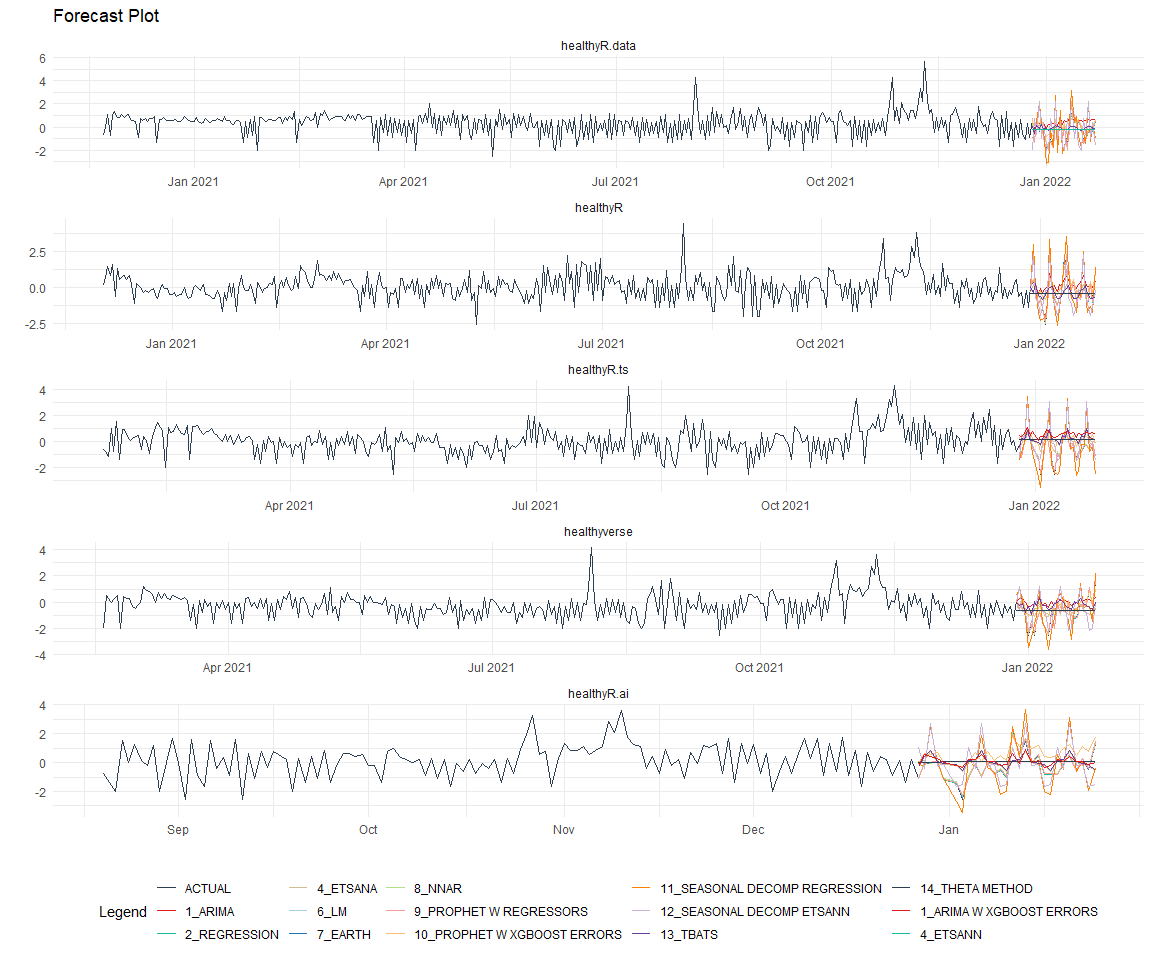
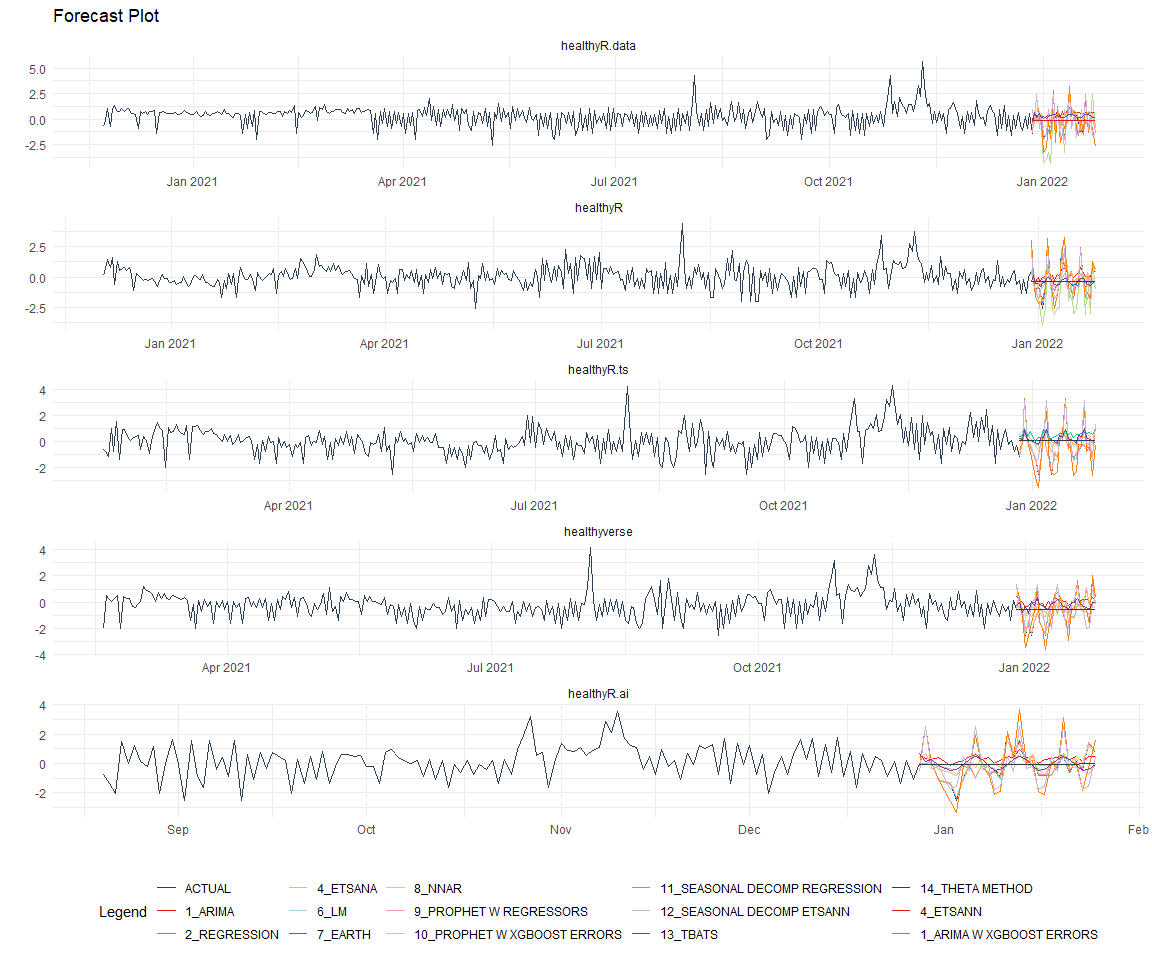
update

diff --git a/README.md b/README.md
@@ -1,7 +1,7 @@
 Time Series Analysis and Modeling of the Healthyverse Packages
 ================
 Steven P. Sanderson II, MPH - Data Scientist/IT Manager
-23 February, 2022
+24 February, 2022
 
 ## Get Data
 
@@ -9,7 +9,7 @@ Steven P. Sanderson II, MPH - Data Scientist/IT Manager
 glimpse(downloads_tbl)
 ```
 
-    ## Rows: 29,537
+    ## Rows: 29,559
     ## Columns: 11
     ## $ date      <date> 2020-11-23, 2020-11-23, 2020-11-23, 2020-11-23, 2020-11-23,~
     ## $ time      <Period> 15H 36M 55S, 11H 26M 39S, 23H 34M 44S, 18H 39M 32S, 9H 0M~
@@ -23,8 +23,8 @@ glimpse(downloads_tbl)
     ## $ country   <chr> "US", "US", "US", "GB", "US", "US", "DE", "HK", "JP", "US", ~
     ## $ ip_id     <int> 2069, 2804, 78827, 27595, 90474, 90474, 42435, 74, 7655, 638~
 
-The last day in the data set is 2022-02-21 22:40:27, the file was
-birthed on: 2021-11-29 11:38:26, and at report knit time is -2022.03
+The last day in the data set is 2022-02-22 23:56:27, the file was
+birthed on: 2021-11-29 11:38:26, and at report knit time is -2047.3
 hours old. Happy analyzing!
 
 Now that we have our data lets take a look at it using the `skimr`
@@ -37,7 +37,7 @@ skim(downloads_tbl)
 |                                                  |                |
 |:-------------------------------------------------|:---------------|
 | Name                                             | downloads\_tbl |
-| Number of rows                                   | 29537          |
+| Number of rows                                   | 29559          |
 | Number of columns                                | 11             |
 | \_\_\_\_\_\_\_\_\_\_\_\_\_\_\_\_\_\_\_\_\_\_\_   |                |
 | Column type frequency:                           |                |
@@ -55,37 +55,37 @@ Data summary
 
 | skim\_variable | n\_missing | complete\_rate | min | max | empty | n\_unique | whitespace |
 |:---------------|-----------:|---------------:|----:|----:|------:|----------:|-----------:|
-| r\_version     |      19628 |           0.34 |   5 |   5 |     0 |        29 |          0 |
-| r\_arch        |      19628 |           0.34 |   3 |   7 |     0 |         5 |          0 |
-| r\_os          |      19628 |           0.34 |   7 |  15 |     0 |        11 |          0 |
+| r\_version     |      19637 |           0.34 |   5 |   5 |     0 |        29 |          0 |
+| r\_arch        |      19637 |           0.34 |   3 |   7 |     0 |         5 |          0 |
+| r\_os          |      19637 |           0.34 |   7 |  15 |     0 |        11 |          0 |
 | package        |          0 |           1.00 |   8 |  13 |     0 |         6 |          0 |
 | version        |          0 |           1.00 |   5 |   5 |     0 |        16 |          0 |
-| country        |       2480 |           0.92 |   2 |   2 |     0 |       101 |          0 |
+| country        |       2482 |           0.92 |   2 |   2 |     0 |       101 |          0 |
 
 **Variable type: Date**
 
 | skim\_variable | n\_missing | complete\_rate | min        | max        | median     | n\_unique |
 |:---------------|-----------:|---------------:|:-----------|:-----------|:-----------|----------:|
-| date           |          0 |              1 | 2020-11-23 | 2022-02-21 | 2021-08-28 |       456 |
+| date           |          0 |              1 | 2020-11-23 | 2022-02-22 | 2021-08-28 |       457 |
 
 **Variable type: numeric**
 
 | skim\_variable | n\_missing | complete\_rate |       mean |         sd |  p0 |   p25 |    p50 |     p75 |    p100 | hist  |
 |:---------------|-----------:|---------------:|-----------:|-----------:|----:|------:|-------:|--------:|--------:|:------|
-| size           |          0 |              1 | 1514965.22 | 1870422.84 | 357 | 20493 | 271097 | 3247946 | 5677952 | ▇▁▂▂▁ |
-| ip\_id         |          0 |              1 |    8251.28 |   15756.63 |   1 |   279 |   2742 |    8288 |  143633 | ▇▁▁▁▁ |
+| size           |          0 |              1 | 1514885.22 | 1870357.49 | 357 | 20774 | 271098 | 3247946 | 5677952 | ▇▁▂▂▁ |
+| ip\_id         |          0 |              1 |    8285.79 |   15856.59 |   1 |   286 |   2742 |    8293 |  143633 | ▇▁▁▁▁ |
 
 **Variable type: POSIXct**
 
 | skim\_variable | n\_missing | complete\_rate | min                 | max                 | median              | n\_unique |
 |:---------------|-----------:|---------------:|:--------------------|:--------------------|:--------------------|----------:|
-| date\_time     |          0 |              1 | 2020-11-23 09:00:41 | 2022-02-21 22:40:27 | 2021-08-28 13:57:30 |     17222 |
+| date\_time     |          0 |              1 | 2020-11-23 09:00:41 | 2022-02-22 23:56:27 | 2021-08-28 14:07:16 |     17240 |
 
 **Variable type: Timespan**
 
-| skim\_variable | n\_missing | complete\_rate | min | max |      median | n\_unique |
-|:---------------|-----------:|---------------:|----:|----:|------------:|----------:|
-| time           |          0 |              1 |   0 |  59 | 10H 58M 45S |        60 |
+| skim\_variable | n\_missing | complete\_rate | min | max |     median | n\_unique |
+|:---------------|-----------:|---------------:|----:|----:|-----------:|----------:|
+| time           |          0 |              1 |   0 |  59 | 10H 59M 0S |        60 |
 
 We can see that the following columns are missing a lot of data and for
 us are most likely not useful anyways, so we will drop them
@@ -230,7 +230,7 @@ recipe_base <- recipe(
   ) %>%
   step_mutate(yr = lubridate::year(date)) %>%
   step_harmonic(yr, frequency = 365/12, cycle_size = 1) %>%
-  step_rm(yr) %>%
+  #step_rm(yr) %>%
   step_hai_fourier(value_trans, scale_type = "sincos", period = 365/12, order = 1) %>%
   step_lag(value_trans, lag = 1) %>%
   step_impute_knn(contains("lag_"))
@@ -248,9 +248,8 @@ recipe_base
     ## 
     ## Operations:
     ## 
-    ## Variable mutation
+    ## Variable mutation for lubridate::year(date)
     ## Harmonic numeric variables for yr
-    ## Delete terms yr
     ## Fourier transformation on value_trans
     ## Lagging value_trans
     ## K-nearest neighbor imputation for contains("lag_")
@@ -482,12 +481,12 @@ nested_modeltime_tbl
     ##   # A tibble: 6 x 5
     ##   package       .actual_data     .future_data .splits          .modeltime_tables
     ##   <chr>         <list>           <list>       <list>           <list>           
-    ## 1 healthyR.data <tibble>         <tibble>     <split [397|28]> <mdl_time_tbl>   
-    ## 2 healthyR      <tibble>         <tibble>     <split [389|28]> <mdl_time_tbl>   
-    ## 3 healthyR.ts   <tibble>         <tibble>     <split [338|28]> <mdl_time_tbl>   
-    ## 4 healthyverse  <tibble>         <tibble>     <split [314|28]> <mdl_time_tbl>   
-    ## 5 healthyR.ai   <tibble>         <tibble>     <split [128|28]> <mdl_time_tbl>   
-    ## 6 TidyDensity   <tibble [4 x 6]> <tibble>     <split [0|4]>    <mdl_time_tbl>
+    ## 1 healthyR.data <tibble>         <tibble>     <split [398|28]> <mdl_time_tbl>   
+    ## 2 healthyR      <tibble>         <tibble>     <split [390|28]> <mdl_time_tbl>   
+    ## 3 healthyR.ts   <tibble>         <tibble>     <split [339|28]> <mdl_time_tbl>   
+    ## 4 healthyverse  <tibble>         <tibble>     <split [315|28]> <mdl_time_tbl>   
+    ## 5 healthyR.ai   <tibble>         <tibble>     <split [129|28]> <mdl_time_tbl>   
+    ## 6 TidyDensity   <tibble [5 x 6]> <tibble>     <split [0|5]>    <mdl_time_tbl>
 
 ### Model Accuracy
 
@@ -499,80 +498,80 @@ nested_modeltime_tbl %>%
 
 | package       | .model\_id | .model\_desc               | .type |       mae |       mape |      mase |      smape |      rmse |       rsq |
 |:--------------|-----------:|:---------------------------|:------|----------:|-----------:|----------:|-----------:|----------:|----------:|
-| healthyR.data |          1 | ARIMA                      | Test  | 0.9107547 | 216.869540 | 0.8027097 | 136.464651 | 1.1410425 | 0.4137489 |
-| healthyR.data |          2 | REGRESSION                 | Test  | 0.0629136 |  22.080666 | 0.0554500 |  18.541911 | 0.0828999 | 0.9936801 |
+| healthyR.data |          1 | ARIMA                      | Test  | 0.9727944 | 230.957441 | 0.8634824 | 137.438105 | 1.2155310 | 0.5905056 |
+| healthyR.data |          2 | NULL                       | NA    |        NA |         NA |        NA |         NA |        NA |        NA |
 | healthyR.data |          3 | NULL                       | NA    |        NA |         NA |        NA |         NA |        NA |        NA |
-| healthyR.data |          4 | ETSANN                     | Test  | 0.8364304 | 131.111762 | 0.7372027 | 152.826528 | 0.9647552 |        NA |
+| healthyR.data |          4 | ETSANN                     | Test  | 0.8665626 | 111.891164 | 0.7691878 | 170.331395 | 1.0013878 |        NA |
 | healthyR.data |          5 | NULL                       | NA    |        NA |         NA |        NA |         NA |        NA |        NA |
-| healthyR.data |          6 | LM                         | Test  | 0.0678958 |  22.073220 | 0.0598412 |  19.736585 | 0.0964910 | 0.9931280 |
-| healthyR.data |          7 | EARTH                      | Test  | 0.0849104 |  29.915544 | 0.0748373 |  24.178397 | 0.1476713 | 0.9813667 |
-| healthyR.data |          8 | NNAR                       | Test  | 0.0136516 |   3.449121 | 0.0120321 |   3.150541 | 0.0276021 | 0.9991864 |
-| healthyR.data |          9 | PROPHET W REGRESSORS       | Test  | 0.0740106 |  22.160397 | 0.0652306 |  21.478883 | 0.1054546 | 0.9916184 |
-| healthyR.data |         10 | PROPHET W XGBOOST ERRORS   | Test  | 0.4283600 | 106.368533 | 0.3775426 |  78.578542 | 0.5534505 | 0.9920039 |
-| healthyR.data |         11 | SEASONAL DECOMP REGRESSION | Test  | 1.1013981 | 477.467909 | 0.9707367 | 112.485872 | 1.2939335 | 0.3510547 |
-| healthyR.data |         12 | SEASONAL DECOMP ETSANN     | Test  | 1.4750868 | 583.685908 | 1.3000938 | 148.091465 | 1.6576492 | 0.0002880 |
-| healthyR.data |         13 | TBATS                      | Test  | 0.7968411 | 134.482311 | 0.7023100 | 159.928930 | 0.9305596 | 0.2217525 |
-| healthyR.data |         14 | THETA METHOD               | Test  | 0.8361571 | 132.097330 | 0.7369618 | 152.175636 | 0.9641000 | 0.0109031 |
+| healthyR.data |          6 | LM                         | Test  | 0.0665979 |  19.389352 | 0.0591143 |  20.327054 | 0.0970551 | 0.9932527 |
+| healthyR.data |          7 | EARTH                      | Test  | 0.0844709 |  28.573953 | 0.0749790 |  22.931520 | 0.1468034 | 0.9817282 |
+| healthyR.data |          8 | NNAR                       | Test  | 0.8104350 | 138.523967 | 0.7193672 |  78.482445 | 1.1878346 | 0.6707288 |
+| healthyR.data |          9 | PROPHET W REGRESSORS       | Test  | 0.0718807 |  19.357817 | 0.0638035 |  18.365559 | 0.1073905 | 0.9917324 |
+| healthyR.data |         10 | PROPHET W XGBOOST ERRORS   | Test  | 0.4532192 | 100.601769 | 0.4022914 |  81.165061 | 0.5713470 | 0.9916176 |
+| healthyR.data |         11 | SEASONAL DECOMP REGRESSION | Test  | 1.1393782 | 398.578003 | 1.0113474 | 120.976469 | 1.3126951 | 0.3629974 |
+| healthyR.data |         12 | SEASONAL DECOMP ETSANN     | Test  | 1.3752070 | 435.994108 | 1.2206763 | 142.332291 | 1.5935673 | 0.0090157 |
+| healthyR.data |         13 | TBATS                      | Test  | 0.9050783 | 120.704107 | 0.8033755 | 143.841533 | 1.1386588 | 0.2124947 |
+| healthyR.data |         14 | THETA METHOD               | Test  | 0.8655717 | 112.408780 | 0.7683082 | 169.148159 | 1.0000536 | 0.0115352 |
 | healthyR.data |         15 | NULL                       | NA    |        NA |         NA |        NA |         NA |        NA |        NA |
-| healthyR      |          1 | ARIMA                      | Test  | 0.7330936 | 206.173601 | 0.8077039 | 143.877013 | 0.8907742 | 0.4996138 |
-| healthyR      |          2 | REGRESSION                 | Test  | 0.0591688 |  12.255349 | 0.0651907 |  13.869332 | 0.0719222 | 0.9952492 |
+| healthyR      |          1 | ARIMA                      | Test  | 0.7234366 | 148.446668 | 0.7863317 | 138.192785 | 0.8876951 | 0.5084793 |
+| healthyR      |          2 | REGRESSION                 | Test  | 0.0574250 |   9.073325 | 0.0624175 |   8.500058 | 0.0698664 | 0.9953646 |
 | healthyR      |          3 | NULL                       | NA    |        NA |         NA |        NA |         NA |        NA |        NA |
-| healthyR      |          4 | ETSANA                     | Test  | 0.6051324 | 189.303890 | 0.6667195 | 102.647971 | 0.8634904 | 0.2105600 |
+| healthyR      |          4 | ETSANA                     | Test  | 0.6151012 | 127.680707 | 0.6685777 | 104.240911 | 0.8597598 | 0.2129013 |
 | healthyR      |          5 | NULL                       | NA    |        NA |         NA |        NA |         NA |        NA |        NA |
-| healthyR      |          6 | LM                         | Test  | 0.0546012 |  10.786139 | 0.0601582 |   9.951854 | 0.0678050 | 0.9952732 |
-| healthyR      |          7 | EARTH                      | Test  | 0.0320037 |   4.852801 | 0.0352609 |   4.944517 | 0.0711538 | 0.9944286 |
-| healthyR      |          8 | NNAR                       | Test  | 0.0086521 |   6.008436 | 0.0095327 |   3.825596 | 0.0197982 | 0.9996734 |
-| healthyR      |          9 | PROPHET W REGRESSORS       | Test  | 0.0589173 |  13.794903 | 0.0649135 |  17.025939 | 0.0735071 | 0.9943681 |
-| healthyR      |         10 | PROPHET W XGBOOST ERRORS   | Test  | 0.4409531 | 153.165587 | 0.4858309 |  96.359261 | 0.5444435 | 0.9769032 |
-| healthyR      |         11 | SEASONAL DECOMP REGRESSION | Test  | 0.8667689 | 310.616745 | 0.9549839 |  88.985368 | 1.1945072 | 0.5744272 |
-| healthyR      |         12 | SEASONAL DECOMP ETSANN     | Test  | 1.0325222 | 438.806808 | 1.1376067 | 117.580784 | 1.2954962 | 0.1235242 |
-| healthyR      |         13 | TBATS                      | Test  | 0.6208214 | 105.930836 | 0.6840053 | 106.731073 | 0.8625972 | 0.1946592 |
-| healthyR      |         14 | THETA METHOD               | Test  | 0.7524570 | 263.308489 | 0.8290380 | 123.528957 | 0.9632008 | 0.0302722 |
+| healthyR      |          6 | LM                         | Test  | 0.0557986 |   9.985349 | 0.0606496 |   9.293124 | 0.0677761 | 0.9953715 |
+| healthyR      |          7 | EARTH                      | Test  | 0.0326383 |   4.201780 | 0.0354758 |   4.200558 | 0.0726722 | 0.9942418 |
+| healthyR      |          8 | NNAR                       | Test  | 0.9722057 | 219.543010 | 1.0567286 |  80.266452 | 1.2669069 | 0.8268152 |
+| healthyR      |          9 | PROPHET W REGRESSORS       | Test  | 0.0612894 |  12.393655 | 0.0666179 |  15.108725 | 0.0747769 | 0.9945049 |
+| healthyR      |         10 | PROPHET W XGBOOST ERRORS   | Test  | 0.4379495 | 109.626668 | 0.4760246 |  92.113732 | 0.5440186 | 0.9772524 |
+| healthyR      |         11 | SEASONAL DECOMP REGRESSION | Test  | 0.8772332 | 307.824861 | 0.9534993 |  87.362508 | 1.1699561 | 0.5433865 |
+| healthyR      |         12 | SEASONAL DECOMP ETSANN     | Test  | 1.0353308 | 375.844791 | 1.1253418 | 122.027518 | 1.2889986 | 0.1296749 |
+| healthyR      |         13 | TBATS                      | Test  | 0.6471667 | 102.824095 | 0.7034309 | 106.302716 | 0.8856660 | 0.1960112 |
+| healthyR      |         14 | THETA METHOD               | Test  | 0.7633001 | 167.745340 | 0.8296610 | 129.184461 | 0.9588372 | 0.0531641 |
 | healthyR      |         15 | NULL                       | NA    |        NA |         NA |        NA |         NA |        NA |        NA |
-| healthyR.ts   |          1 | ARIMA W XGBOOST ERRORS     | Test  | 1.1480552 | 494.964075 | 1.4109774 | 173.807718 | 1.3228141 | 0.5558305 |
-| healthyR.ts   |          2 | REGRESSION                 | Test  | 0.0783924 |  32.639481 | 0.0963455 |  22.159934 | 0.0946153 | 0.9891227 |
+| healthyR.ts   |          1 | ARIMA W XGBOOST ERRORS     | Test  | 1.0976153 | 404.043848 | 1.2648207 | 166.438361 | 1.2848233 | 0.5730745 |
+| healthyR.ts   |          2 | REGRESSION                 | Test  | 0.0764642 |  28.005388 | 0.0881124 |  20.764298 | 0.0928644 | 0.9907477 |
 | healthyR.ts   |          3 | NULL                       | NA    |        NA |         NA |        NA |         NA |        NA |        NA |
-| healthyR.ts   |          4 | ETSANA                     | Test  | 0.7715030 | 169.304597 | 0.9481890 | 146.402211 | 1.0019294 | 0.2174065 |
+| healthyR.ts   |          4 | ETSANA                     | Test  | 0.8256526 | 168.688604 | 0.9514286 | 150.080461 | 1.0401490 | 0.1298136 |
 | healthyR.ts   |          5 | NULL                       | NA    |        NA |         NA |        NA |         NA |        NA |        NA |
-| healthyR.ts   |          6 | LM                         | Test  | 0.0688659 |  30.338032 | 0.0846373 |  21.952425 | 0.0845217 | 0.9895685 |
-| healthyR.ts   |          7 | EARTH                      | Test  | 0.0131625 |   2.803161 | 0.0161769 |   2.747149 | 0.0199910 | 0.9995103 |
-| healthyR.ts   |          8 | NNAR                       | Test  | 0.0131600 |   4.668947 | 0.0161739 |   4.297711 | 0.0283633 | 0.9991566 |
-| healthyR.ts   |          9 | PROPHET W REGRESSORS       | Test  | 0.0814530 |  33.152969 | 0.1001070 |  26.035466 | 0.0975645 | 0.9873904 |
-| healthyR.ts   |         10 | PROPHET W XGBOOST ERRORS   | Test  | 0.7521457 | 384.621724 | 0.9243986 | 151.131287 | 0.8304213 | 0.9765208 |
-| healthyR.ts   |         11 | SEASONAL DECOMP REGRESSION | Test  | 0.9369650 | 317.762604 | 1.1515443 |  90.008361 | 1.3380816 | 0.5472484 |
-| healthyR.ts   |         12 | SEASONAL DECOMP ETSANN     | Test  | 1.0187355 | 349.884852 | 1.2520416 | 129.641628 | 1.4329569 | 0.2115508 |
-| healthyR.ts   |         13 | TBATS                      | Test  | 0.8732007 | 243.777275 | 1.0731771 | 156.113301 | 1.0916485 | 0.1889748 |
-| healthyR.ts   |         14 | THETA METHOD               | Test  | 0.8629962 | 190.794125 | 1.0606356 | 174.684256 | 1.1007022 | 0.0006823 |
+| healthyR.ts   |          6 | LM                         | Test  | 0.0686098 |  26.497817 | 0.0790614 |  21.378815 | 0.0841000 | 0.9911112 |
+| healthyR.ts   |          7 | EARTH                      | Test  | 0.0140701 |   3.237338 | 0.0162135 |   3.141437 | 0.0206622 | 0.9995045 |
+| healthyR.ts   |          8 | NNAR                       | Test  | 0.0162621 |   4.622008 | 0.0187393 |   4.617241 | 0.0315486 | 0.9990307 |
+| healthyR.ts   |          9 | PROPHET W REGRESSORS       | Test  | 0.0799496 |  28.600220 | 0.0921288 |  23.413281 | 0.0962261 | 0.9892436 |
+| healthyR.ts   |         10 | PROPHET W XGBOOST ERRORS   | Test  | 0.7181831 | 334.187454 | 0.8275876 | 142.235996 | 0.8080508 | 0.9764604 |
+| healthyR.ts   |         11 | SEASONAL DECOMP REGRESSION | Test  | 0.9566699 | 295.141322 | 1.1024044 |  93.491115 | 1.3477779 | 0.4885234 |
+| healthyR.ts   |         12 | SEASONAL DECOMP ETSANN     | Test  | 1.0784724 | 330.320361 | 1.2427617 | 132.036886 | 1.5015042 | 0.1312970 |
+| healthyR.ts   |         13 | TBATS                      | Test  | 0.9183002 | 230.902502 | 1.0581896 | 163.250463 | 1.1224279 | 0.1318868 |
+| healthyR.ts   |         14 | THETA METHOD               | Test  | 0.8313626 | 133.408204 | 0.9580084 | 173.842499 | 1.0631239 | 0.0284038 |
 | healthyR.ts   |         15 | NULL                       | NA    |        NA |         NA |        NA |         NA |        NA |        NA |
-| healthyverse  |          1 | ARIMA                      | Test  | 0.9914966 | 118.215159 | 0.9788949 | 168.552364 | 1.1809040 | 0.7196131 |
-| healthyverse  |          2 | REGRESSION                 | Test  | 0.0651028 |   7.907712 | 0.0642754 |   7.698851 | 0.0895193 | 0.9924302 |
+| healthyverse  |          1 | ARIMA                      | Test  | 1.0144559 | 130.974184 | 0.9687920 | 169.311551 | 1.1936390 | 0.7090114 |
+| healthyverse  |          2 | REGRESSION                 | Test  | 0.0658806 |   8.347889 | 0.0629151 |   8.349709 | 0.0890054 | 0.9923478 |
 | healthyverse  |          3 | NULL                       | NA    |        NA |         NA |        NA |         NA |        NA |        NA |
-| healthyverse  |          4 | ETSANA                     | Test  | 0.8480925 | 157.128958 | 0.8373134 | 109.437617 | 1.0169026 | 0.0274493 |
+| healthyverse  |          4 | ETSANA                     | Test  | 0.8552549 | 136.451360 | 0.8167572 | 116.083800 | 1.0329493 | 0.0253997 |
 | healthyverse  |          5 | NULL                       | NA    |        NA |         NA |        NA |         NA |        NA |        NA |
-| healthyverse  |          6 | LM                         | Test  | 0.0699460 |   9.348866 | 0.0690570 |   9.320692 | 0.0952339 | 0.9923929 |
-| healthyverse  |          7 | EARTH                      | Test  | 0.0269458 |   2.525845 | 0.0266034 |   2.506753 | 0.0521755 | 0.9977950 |
-| healthyverse  |          8 | NNAR                       | Test  | 0.0217240 |   2.669729 | 0.0214479 |   2.524760 | 0.0437332 | 0.9984633 |
-| healthyverse  |          9 | PROPHET W REGRESSORS       | Test  | 0.0674200 |   8.351986 | 0.0665631 |   8.291153 | 0.0922881 | 0.9921350 |
-| healthyverse  |         10 | PROPHET W XGBOOST ERRORS   | Test  | 0.5330982 |  68.220793 | 0.5263227 |  88.244669 | 0.6633042 | 0.9752913 |
-| healthyverse  |         11 | SEASONAL DECOMP REGRESSION | Test  | 0.7640929 | 188.965429 | 0.7543814 |  85.491288 | 0.9431090 | 0.5588426 |
-| healthyverse  |         12 | SEASONAL DECOMP ETSANN     | Test  | 1.1609534 | 254.710992 | 1.1461980 | 137.366826 | 1.3974383 | 0.0165794 |
-| healthyverse  |         13 | TBATS                      | Test  | 0.9156520 | 103.675057 | 0.9040142 | 143.651367 | 1.1514483 | 0.0475970 |
-| healthyverse  |         14 | THETA METHOD               | Test  | 0.8239618 | 155.635974 | 0.8134895 | 100.035681 | 1.0190587 | 0.1723848 |
+| healthyverse  |          6 | LM                         | Test  | 0.0707421 |   9.590797 | 0.0675578 |  10.060767 | 0.0946685 | 0.9923060 |
+| healthyverse  |          7 | EARTH                      | Test  | 0.0246752 |   2.207932 | 0.0235645 |   2.198735 | 0.0472335 | 0.9982698 |
+| healthyverse  |          8 | NNAR                       | Test  | 0.0190210 |   1.374367 | 0.0181648 |   1.353699 | 0.0414687 | 0.9986014 |
+| healthyverse  |          9 | PROPHET W REGRESSORS       | Test  | 0.0654841 |   8.315753 | 0.0625364 |   8.147299 | 0.0895836 | 0.9921571 |
+| healthyverse  |         10 | PROPHET W XGBOOST ERRORS   | Test  | 0.5463795 |  73.516263 | 0.5217852 |  96.002525 | 0.6715577 | 0.9746682 |
+| healthyverse  |         11 | SEASONAL DECOMP REGRESSION | Test  | 0.8421270 | 219.851058 | 0.8042202 |  89.183752 | 1.0352122 | 0.4930182 |
+| healthyverse  |         12 | SEASONAL DECOMP ETSANN     | Test  | 1.1912964 | 264.281392 | 1.1376724 | 140.097956 | 1.4189943 | 0.0159317 |
+| healthyverse  |         13 | TBATS                      | Test  | 0.9161711 | 104.708676 | 0.8749313 | 142.280695 | 1.1492552 | 0.0380975 |
+| healthyverse  |         14 | THETA METHOD               | Test  | 0.8308208 | 126.963336 | 0.7934229 | 102.984909 | 1.0352815 | 0.2644140 |
 | healthyverse  |         15 | NULL                       | NA    |        NA |         NA |        NA |         NA |        NA |        NA |
-| healthyR.ai   |          1 | ARIMA W XGBOOST ERRORS     | Test  | 0.6697221 | 213.179150 | 0.7540522 | 145.784663 | 0.8431523 | 0.3922278 |
-| healthyR.ai   |          2 | REGRESSION                 | Test  | 0.0685499 |  24.953431 | 0.0771816 |  25.842220 | 0.0809294 | 0.9937802 |
+| healthyR.ai   |          1 | ARIMA                      | Test  | 0.7725280 | 293.749097 | 0.8932015 | 150.746614 | 0.9531805 | 0.4421978 |
+| healthyR.ai   |          2 | REGRESSION                 | Test  | 0.0682019 |  18.619327 | 0.0788554 |  22.514741 | 0.0814961 | 0.9935300 |
 | healthyR.ai   |          3 | NULL                       | NA    |        NA |         NA |        NA |         NA |        NA |        NA |
-| healthyR.ai   |          4 | ETSANA                     | Test  | 0.6903522 | 158.516952 | 0.7772800 | 141.707875 | 0.9005014 | 0.1142478 |
+| healthyR.ai   |          4 | ETSANA                     | Test  | 0.6214028 | 129.558564 | 0.7184696 | 130.142465 | 0.8609528 | 0.1208299 |
 | healthyR.ai   |          5 | NULL                       | NA    |        NA |         NA |        NA |         NA |        NA |        NA |
-| healthyR.ai   |          6 | LM                         | Test  | 0.0652233 |  20.528961 | 0.0734361 |  24.807885 | 0.0844501 | 0.9933334 |
-| healthyR.ai   |          7 | EARTH                      | Test  | 0.0163447 |   2.426473 | 0.0184028 |   2.397250 | 0.0289274 | 0.9990271 |
-| healthyR.ai   |          8 | NNAR                       | Test  | 0.0247714 |   7.832849 | 0.0278905 |   6.755604 | 0.0522504 | 0.9972630 |
-| healthyR.ai   |          9 | PROPHET W REGRESSORS       | Test  | 0.0670010 |  27.364816 | 0.0754376 |  31.850914 | 0.0873215 | 0.9918521 |
-| healthyR.ai   |         10 | PROPHET W XGBOOST ERRORS   | Test  | 0.9124996 | 499.606914 | 1.0273998 | 159.544757 | 0.9887908 | 0.9081545 |
-| healthyR.ai   |         11 | SEASONAL DECOMP REGRESSION | Test  | 0.9755509 | 367.377416 | 1.0983903 | 118.089314 | 1.2920801 | 0.4455296 |
-| healthyR.ai   |         12 | SEASONAL DECOMP ETSANN     | Test  | 1.1141247 | 396.590711 | 1.2544131 | 140.027774 | 1.4301440 | 0.0961208 |
-| healthyR.ai   |         13 | TBATS                      | Test  | 0.7118290 | 217.301505 | 0.8014611 | 145.701851 | 0.9080897 | 0.1351647 |
-| healthyR.ai   |         14 | THETA METHOD               | Test  | 0.7430878 | 111.087798 | 0.8366559 | 174.660490 | 0.9580972 | 0.1294197 |
+| healthyR.ai   |          6 | LM                         | Test  | 0.0701634 |  19.114181 | 0.0811234 |  20.521040 | 0.0906009 | 0.9930406 |
+| healthyR.ai   |          7 | EARTH                      | Test  | 0.0166593 |   2.512698 | 0.0192616 |   2.482299 | 0.0288538 | 0.9990393 |
+| healthyR.ai   |          8 | NNAR                       | Test  | 0.0266349 |   6.370178 | 0.0307954 |   6.985189 | 0.0499439 | 0.9976572 |
+| healthyR.ai   |          9 | PROPHET W REGRESSORS       | Test  | 0.0705536 |  21.373812 | 0.0815745 |  27.488484 | 0.0921656 | 0.9916541 |
+| healthyR.ai   |         10 | PROPHET W XGBOOST ERRORS   | Test  | 0.4633932 | 217.969463 | 0.5357780 | 114.374887 | 0.5570438 | 0.9746520 |
+| healthyR.ai   |         11 | SEASONAL DECOMP REGRESSION | Test  | 0.8974215 | 338.767117 | 1.0376040 | 107.252650 | 1.2345158 | 0.4882713 |
+| healthyR.ai   |         12 | SEASONAL DECOMP ETSANN     | Test  | 1.0496451 | 439.067956 | 1.2136060 | 135.439115 | 1.3231452 | 0.1224419 |
+| healthyR.ai   |         13 | TBATS                      | Test  | 0.6630875 | 245.521613 | 0.7666657 | 136.363270 | 0.8723316 | 0.1183161 |
+| healthyR.ai   |         14 | THETA METHOD               | Test  | 0.6936468 | 109.389317 | 0.8019985 | 165.134269 | 0.9142872 | 0.1314656 |
 | healthyR.ai   |         15 | NULL                       | NA    |        NA |         NA |        NA |         NA |        NA |        NA |
 | TidyDensity   |          1 | NULL                       | NA    |        NA |         NA |        NA |         NA |        NA |        NA |
 | TidyDensity   |          2 | NULL                       | NA    |        NA |         NA |        NA |         NA |        NA |        NA |
@@ -623,15 +622,14 @@ best_nested_modeltime_tbl %>%
 
     ## # Nested Modeltime Table
     ##   # A tibble: 6 x 10
-    ##   package      .model_id .model_desc .type      mae  mape     mase smape    rmse
-    ##   <chr>            <int> <chr>       <chr>    <dbl> <dbl>    <dbl> <dbl>   <dbl>
-    ## 1 healthyR.da~         8 NNAR        Test   0.0137   3.45  0.0120   3.15  0.0276
-    ## 2 healthyR             8 NNAR        Test   0.00865  6.01  0.00953  3.83  0.0198
-    ## 3 healthyR.ts          7 EARTH       Test   0.0132   2.80  0.0162   2.75  0.0200
-    ## 4 healthyverse         8 NNAR        Test   0.0217   2.67  0.0214   2.52  0.0437
-    ## 5 healthyR.ai          7 EARTH       Test   0.0163   2.43  0.0184   2.40  0.0289
-    ## 6 TidyDensity         NA <NA>        <NA>  NA       NA    NA       NA    NA     
-    ## # ... with 1 more variable: rsq <dbl>
+    ##   package .model_id .model_desc .type     mae  mape    mase smape    rmse    rsq
+    ##   <chr>       <int> <chr>       <chr>   <dbl> <dbl>   <dbl> <dbl>   <dbl>  <dbl>
+    ## 1 health~         6 LM          Test   0.0666 19.4   0.0591 20.3   0.0971  0.993
+    ## 2 health~         6 LM          Test   0.0558  9.99  0.0606  9.29  0.0678  0.995
+    ## 3 health~         7 EARTH       Test   0.0141  3.24  0.0162  3.14  0.0207  1.00 
+    ## 4 health~         8 NNAR        Test   0.0190  1.37  0.0182  1.35  0.0415  0.999
+    ## 5 health~         7 EARTH       Test   0.0167  2.51  0.0193  2.48  0.0289  0.999
+    ## 6 TidyDe~        NA <NA>        <NA>  NA      NA    NA      NA    NA      NA
 
 ``` r
 best_nested_modeltime_tbl %>%
@@ -672,12 +670,12 @@ nested_modeltime_refit_tbl
     ##   # A tibble: 6 x 5
     ##   package       .actual_data     .future_data .splits          .modeltime_tables
     ##   <chr>         <list>           <list>       <list>           <list>           
-    ## 1 healthyR.data <tibble>         <tibble>     <split [397|28]> <mdl_time_tbl>   
-    ## 2 healthyR      <tibble>         <tibble>     <split [389|28]> <mdl_time_tbl>   
-    ## 3 healthyR.ts   <tibble>         <tibble>     <split [338|28]> <mdl_time_tbl>   
-    ## 4 healthyverse  <tibble>         <tibble>     <split [314|28]> <mdl_time_tbl>   
-    ## 5 healthyR.ai   <tibble>         <tibble>     <split [128|28]> <mdl_time_tbl>   
-    ## 6 TidyDensity   <tibble [4 x 6]> <tibble>     <split [0|4]>    <mdl_time_tbl>
+    ## 1 healthyR.data <tibble>         <tibble>     <split [398|28]> <mdl_time_tbl>   
+    ## 2 healthyR      <tibble>         <tibble>     <split [390|28]> <mdl_time_tbl>   
+    ## 3 healthyR.ts   <tibble>         <tibble>     <split [339|28]> <mdl_time_tbl>   
+    ## 4 healthyverse  <tibble>         <tibble>     <split [315|28]> <mdl_time_tbl>   
+    ## 5 healthyR.ai   <tibble>         <tibble>     <split [129|28]> <mdl_time_tbl>   
+    ## 6 TidyDensity   <tibble [5 x 6]> <tibble>     <split [0|5]>    <mdl_time_tbl>
 
 ``` r
 nested_modeltime_refit_tbl %>%
